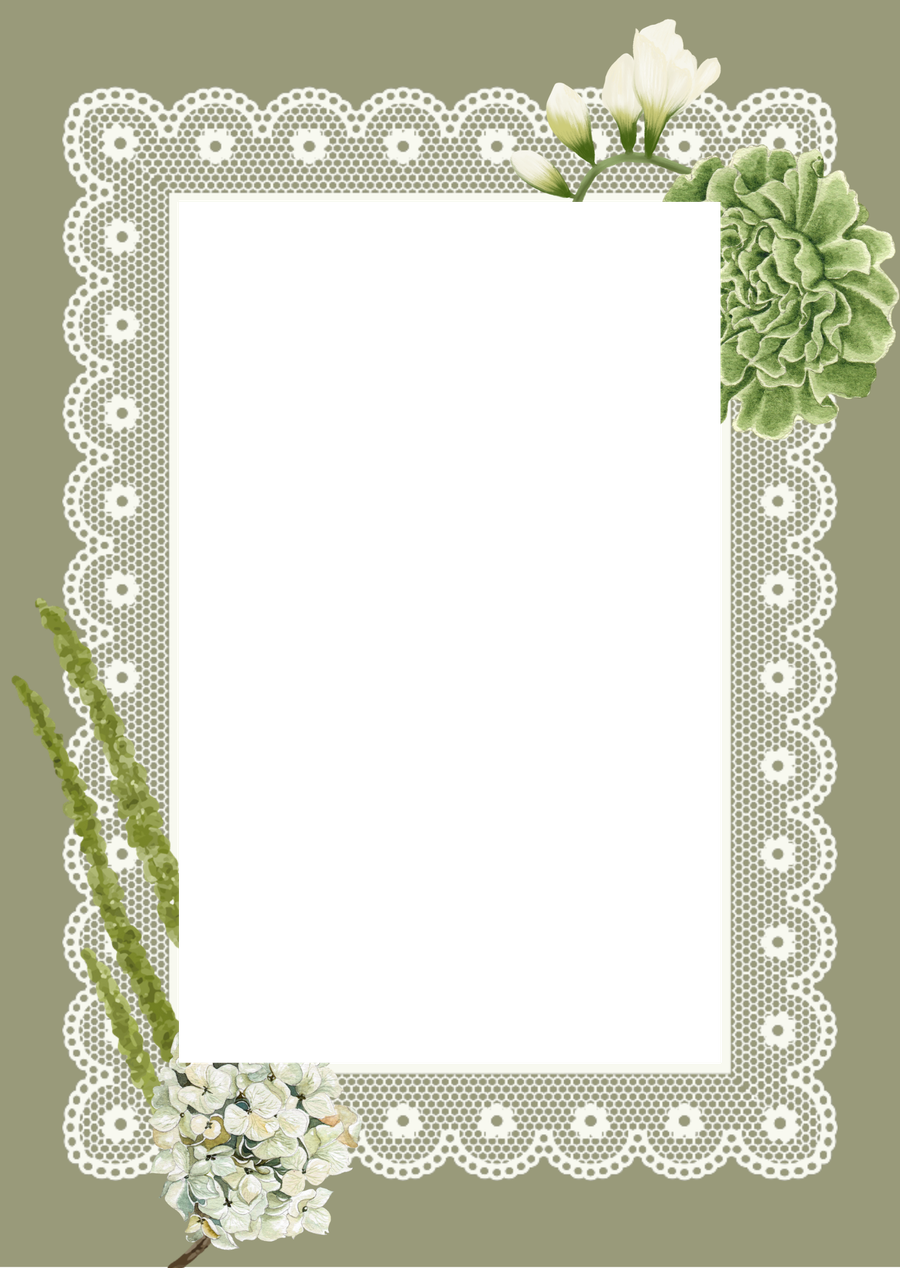
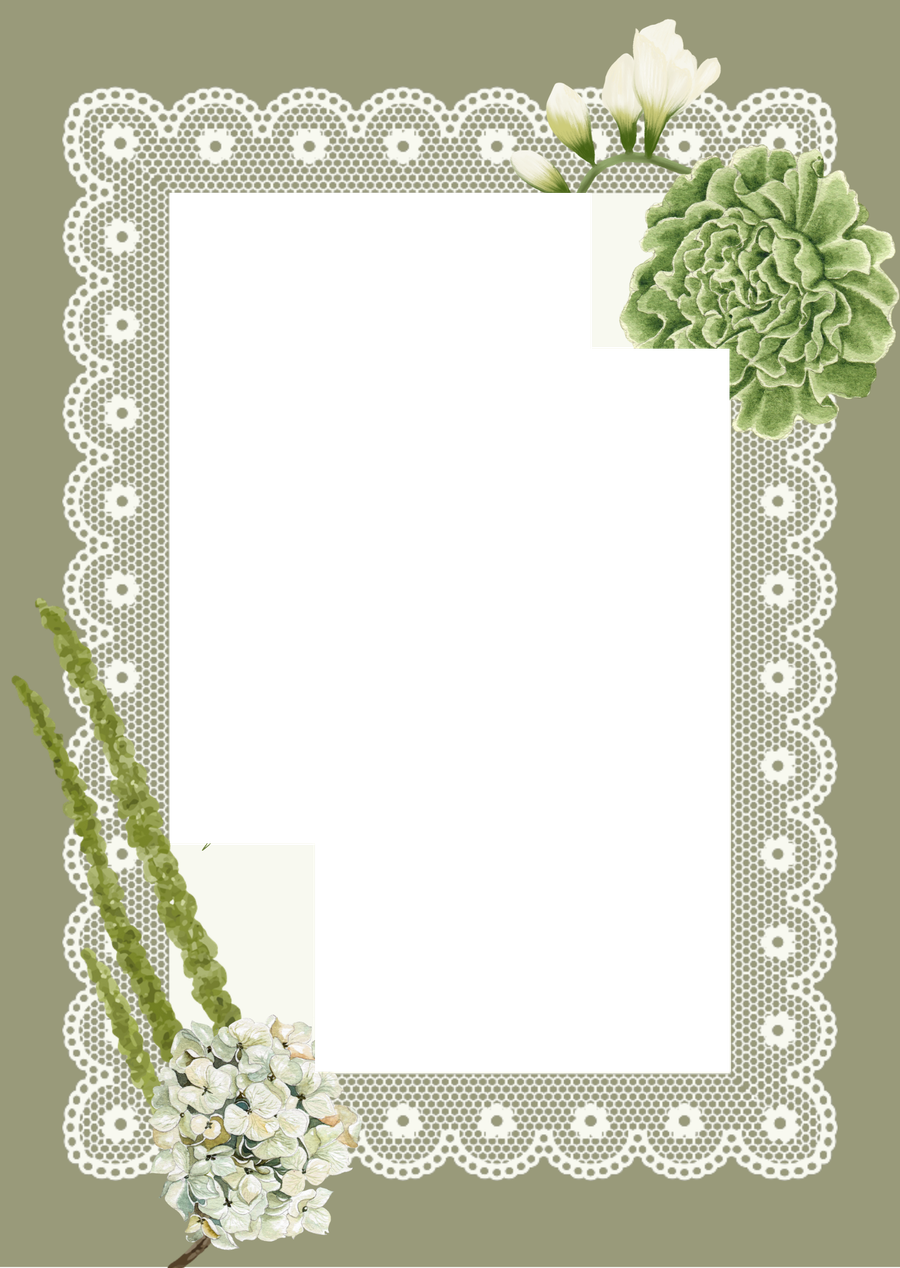
Krizza & Bryan invite: one-screen card that swaps to the RSVP form on tap
Fixed the flower z-order (real flower art now sits in front of the card exactly
as in the Canva design, no more clipped stems); added the matching script font
for the monogram and 'and'; card and form are now two full-screen views on the
same page (no scrolling, phone-first) toggled by RSVP Here / Back; added a
twinkling-stars background (same pattern as Cherry Sage's starfield.js, recoloured
warm gold) and a soft glow on the card and button.

Changed region(s): [[0.1867, 0.6767, 0.3733, 0.8612], [0.6844, 0.1538, 0.8089, 0.3383], [0.6222, 0.1538, 0.6533, 0.1845]]

diff --git a/krizza-and-bryan-invite.html b/krizza-and-bryan-invite.html
@@ -13,62 +13,90 @@
 <meta property="og:url" content="https://balaynibruno.co/krizza-and-bryan-invite">
 <meta property="og:image" content="https://balaynibruno.co/assets/krizza-bryan/canva-invite.jpg">
 <meta name="twitter:card" content="summary_large_image">
-<meta name="theme-color" content="#999A7A">
+<meta name="theme-color" content="#8B8C6E">
 <link rel="preconnect" href="https://fonts.googleapis.com">
 <link rel="preconnect" href="https://fonts.gstatic.com" crossorigin>
-<link rel="stylesheet" href="https://fonts.googleapis.com/css2?family=Cormorant+Garamond:ital,wght@0,500;0,600;1,400;1,500;1,600&family=Karla:wght@400;600;700&display=swap">
+<link rel="stylesheet" href="https://fonts.googleapis.com/css2?family=Beau+Rivage&family=Cormorant+Garamond:ital,wght@0,500;0,600;1,400;1,500;1,600&family=Karla:wght@400;600;700&display=swap">
 <style>
 :root{
-  --olive:#999A7A; --cream:#F8F9F0; --ink:#5E6B34; --pink:#CFACA6; --pink-ink:#B98F87;
+  --olive:#999A7A; --olive-deep:#7E805F; --cream:#F8F9F0; --ink:#5E6B34; --pink:#CFACA6; --pink-ink:#B98F87;
   --muted:#7C7A63; --line:#E4DFC9;
 }
 *{box-sizing:border-box}
-html{scroll-behavior:smooth}
+html,body{height:100%}
 body{
-  margin:0; background:var(--olive); color:var(--ink);
-  font-family:"Karla",system-ui,-apple-system,sans-serif; line-height:1.6;
+  margin:0; background:radial-gradient(120% 100% at 50% 0%, var(--olive) 0%, var(--olive-deep) 100%);
+  color:var(--ink); font-family:"Karla",system-ui,-apple-system,sans-serif; line-height:1.6; overflow:hidden;
 }
-h1,h2,.serif{font-family:"Cormorant Garamond",Georgia,serif; margin:0}
 a{color:inherit}
 :focus-visible{outline:3px solid var(--pink-ink); outline-offset:3px}
+canvas.kb-stars{ position:fixed; inset:0; z-index:0; pointer-events:none }
 
-/* ---------- the card (real frame photo + real live text over the same hole) ---------- */
-.stage{ padding:36px 16px 8px; display:flex; justify-content:center }
+.screen{
+  position:fixed; inset:0; z-index:1; display:flex; flex-direction:column; align-items:center; justify-content:center;
+  padding:calc(env(safe-area-inset-top,0px) + 14px) 16px calc(env(safe-area-inset-bottom,0px) + 14px);
+  transition:opacity .45s ease, transform .45s cubic-bezier(.2,.8,.2,1);
+}
+#screenForm{ opacity:0; transform:translateY(24px) scale(.98); pointer-events:none; overflow-y:auto; align-items:flex-start; padding-top:calc(env(safe-area-inset-top,0px) + 22px) }
+body[data-view="form"] #screenCard{ opacity:0; transform:translateY(-18px) scale(.98); pointer-events:none }
+body[data-view="form"] #screenForm{ opacity:1; transform:none; pointer-events:auto }
+body[data-view="form"]{ overflow-y:auto }
+body:not([data-view="form"]){ overflow:hidden }
+
+/* ---------- the card (real frame photo + real live text over the same area) ---------- */
 .card{
-  position:relative; width:100%; max-width:460px; aspect-ratio:900/1268;
-  filter:drop-shadow(0 22px 46px rgba(30,30,10,.35));
+  position:relative; width:min(94vw, 92dvh * 0.71, 430px); aspect-ratio:900/1268;
+  animation:cardIn .8s cubic-bezier(.2,.8,.2,1) both, cardGlow 3.6s ease-in-out .8s infinite;
+}
+@keyframes cardIn{ from{ opacity:0; transform:translateY(16px) scale(.96) } to{ opacity:1; transform:none } }
+@keyframes cardGlow{
+  0%,100%{ filter:drop-shadow(0 20px 42px rgba(20,20,8,.4)) drop-shadow(0 0 26px rgba(247,225,170,.15)) }
+  50%{ filter:drop-shadow(0 24px 50px rgba(20,20,8,.42)) drop-shadow(0 0 42px rgba(247,225,170,.32)) }
 }
 .card .frame{ position:absolute; inset:0; width:100%; height:100%; z-index:2; pointer-events:none; user-select:none }
 .card .content{
-  position:absolute; left:19.9%; top:15.9%; width:60.2%; height:67.9%;
+  position:absolute; left:18.9%; top:15.2%; width:62.2%; height:69.3%;
   background:var(--cream); z-index:1;
-  display:flex; flex-direction:column; align-items:center; justify-content:flex-start;
-  text-align:center; padding:2% 3% 3%; overflow:hidden;
+  display:flex; flex-direction:column; align-items:center; justify-content:center;
+  text-align:center; padding:2% 3%; overflow:hidden; container-type:inline-size;
 }
-.mono{ font-family:"Cormorant Garamond",serif; font-style:italic; font-weight:600; font-size:clamp(1.6rem,7cqw,2.4rem); margin-top:2%; }
-.kicker{ font-size:clamp(.5rem,2.3cqw,.72rem); letter-spacing:.18em; font-weight:700; text-transform:uppercase; margin-top:6%; line-height:1.7 }
-.names{ font-size:clamp(1.5rem,7.2cqw,2.5rem); letter-spacing:.06em; text-transform:uppercase; margin-top:6%; line-height:1.15 }
-.and{ font-family:"Cormorant Garamond",serif; font-style:italic; font-size:clamp(.9rem,3.6cqw,1.3rem); display:block; margin:1% 0 }
-.date{ font-size:clamp(.6rem,2.6cqw,.85rem); letter-spacing:.12em; font-weight:700; text-transform:uppercase; margin-top:5% }
-.venue{ font-size:clamp(.55rem,2.4cqw,.8rem); letter-spacing:.06em; text-transform:uppercase; margin-top:3%; line-height:1.55 }
-.note{ font-family:"Cormorant Garamond",serif; font-style:italic; font-size:clamp(.68rem,2.9cqw,1rem); margin-top:5%; color:var(--muted) }
-.deadline{ font-size:clamp(.5rem,2.2cqw,.7rem); letter-spacing:.12em; font-weight:700; text-transform:uppercase; margin-top:5%; line-height:1.7 }
+.mono{ font-family:"Beau Rivage",cursive; font-size:clamp(1.9rem,11cqw,2.8rem); line-height:1; color:var(--ink) }
+.kicker{ font-size:clamp(.5rem,2.4cqw,.72rem); letter-spacing:.18em; font-weight:700; text-transform:uppercase; margin-top:6%; line-height:1.7 }
+.names{ font-family:"Cormorant Garamond",serif; font-weight:600; font-size:clamp(1.5rem,7.6cqw,2.5rem); letter-spacing:.05em; text-transform:uppercase; margin-top:6%; line-height:1.1 }
+.and{ font-family:"Beau Rivage",cursive; font-size:clamp(1rem,5cqw,1.5rem); display:block; margin:1% 0; color:var(--pink-ink) }
+.date{ font-size:clamp(.6rem,2.7cqw,.85rem); letter-spacing:.12em; font-weight:700; text-transform:uppercase; margin-top:5% }
+.venue{ font-size:clamp(.55rem,2.5cqw,.8rem); letter-spacing:.06em; text-transform:uppercase; margin-top:3%; line-height:1.55 }
+.note{ font-family:"Cormorant Garamond",serif; font-style:italic; font-size:clamp(.68rem,3cqw,1rem); margin-top:5%; color:var(--muted) }
+.deadline{ font-size:clamp(.5rem,2.3cqw,.7rem); letter-spacing:.12em; font-weight:700; text-transform:uppercase; margin-top:5%; line-height:1.7 }
 .rsvp-btn{
-  margin-top:5%; background:var(--pink); color:#fff; border:0; cursor:pointer;
-  font:700 clamp(.6rem,2.6cqw,.85rem)/1 "Karla",sans-serif; letter-spacing:.14em; text-transform:uppercase;
-  padding:4.2% 8%; width:78%; border-radius:2px;
+  position:relative; overflow:hidden; margin-top:5%; background:var(--pink); color:#fff; border:0; cursor:pointer;
+  font:700 clamp(.6rem,2.7cqw,.85rem)/1 "Karla",sans-serif; letter-spacing:.14em; text-transform:uppercase;
+  padding:4.4% 8%; width:80%; border-radius:2px; box-shadow:0 8px 18px -8px rgba(40,20,10,.45);
+  transition:transform .2s ease, box-shadow .2s ease;
 }
-.rsvp-btn:hover{ background:var(--pink-ink) }
-.hint{ font-size:.68rem; letter-spacing:.06em; text-align:center; color:#EFEEDD; opacity:.85; margin:10px 0 0 }
+.rsvp-btn:hover{ background:var(--pink-ink); transform:translateY(-1px); box-shadow:0 12px 22px -8px rgba(40,20,10,.5) }
+.rsvp-btn:active{ transform:translateY(0) scale(.98) }
+.rsvp-btn::after{
+  content:""; position:absolute; top:0; left:-60%; width:40%; height:100%;
+  background:linear-gradient(115deg, transparent, rgba(255,255,255,.55), transparent);
+  animation:shine 3.2s ease-in-out 1.2s infinite;
+}
+@keyframes shine{ 0%{ left:-60% } 35%{ left:130% } 100%{ left:130% } }
+@media (prefers-reduced-motion:reduce){ .rsvp-btn::after{ animation:none; display:none } .card{ animation:none } }
+.hint{ font-size:.7rem; letter-spacing:.06em; text-align:center; color:#F3F0DF; opacity:.85; margin:12px 0 0 }
 
-/* ---------- the form section (revealed below, same page) ---------- */
-#rsvp{ padding:24px 16px 64px }
-.wrap{ width:min(100% - 0px, 460px); margin-inline:auto }
-.formcard{
-  background:var(--cream); border-radius:14px; padding:26px 22px 22px;
-  box-shadow:0 14px 34px -18px rgba(30,30,10,.45);
+/* ---------- the form screen ---------- */
+.wrap{ width:min(92vw, 420px); margin-inline:auto; padding-bottom:24px }
+.back{
+  display:inline-flex; align-items:center; gap:6px; color:#F3F0DF; background:none; border:0; cursor:pointer;
+  font:700 .78rem/1 "Karla",sans-serif; letter-spacing:.08em; text-transform:uppercase; margin:0 0 14px; padding:8px 4px;
 }
-.formcard h2{ text-align:center; font-size:1.7rem; color:var(--ink); margin-bottom:4px }
+.back:hover{ opacity:.8 }
+.formcard{
+  background:var(--cream); border-radius:16px; padding:26px 22px 22px;
+  box-shadow:0 20px 46px -20px rgba(20,20,8,.55), 0 0 30px rgba(247,225,170,.12);
+}
+.formcard h2{ font-family:"Cormorant Garamond",serif; text-align:center; font-size:1.7rem; color:var(--ink); margin:0 0 4px }
 .formcard .sub{ text-align:center; color:var(--muted); font-size:.92rem; margin-bottom:20px }
 .field{ margin:0 0 18px }
 label,.legend{ display:block; font-weight:700; margin-bottom:6px; color:#3C3A2C; font-size:.95rem }
@@ -106,15 +134,16 @@ input:focus,textarea:focus{ outline:none; border-color:var(--pink-ink); box-shad
 .thanks p{ color:var(--muted); max-width:360px; margin:8px auto 0 }
 </style>
 </head>
-<body>
+<body data-view="card">
+<canvas class="kb-stars" aria-hidden="true"></canvas>
 
-<section class="stage">
+<section class="screen" id="screenCard">
   <div class="card">
     <img class="frame" src="/assets/krizza-bryan/canva-frame.png" alt="" aria-hidden="true" width="900" height="1268">
-    <div class="content" style="container-type:inline-size">
+    <div class="content">
       <div class="mono">K&amp;B</div>
       <div class="kicker">Please join us<br>to celebrate the wedding of</div>
-      <div class="names">Krizza<span class="and serif">and</span>Bryan</div>
+      <div class="names">Krizza<span class="and">and</span>Bryan</div>
       <div class="date">October 24th, 2026</div>
       <div class="venue">Astoria Regency Convention<br>Center Zamboanga City</div>
       <div class="note">Formal invitation with full details to follow</div>
@@ -122,11 +151,12 @@ input:focus,textarea:focus{ outline:none; border-color:var(--pink-ink); box-shad
       <button class="rsvp-btn" type="button" id="rsvpGo">RSVP Here</button>
     </div>
   </div>
+  <p class="hint">Tap RSVP Here to fill in your reply</p>
 </section>
-<p class="hint">Tap RSVP Here to fill in your reply below</p>
 
-<section id="rsvp">
+<section class="screen" id="screenForm">
   <div class="wrap">
+    <button class="back" type="button" id="backGo" aria-label="Back to the invitation">&larr; Back</button>
     <div class="formcard">
       <div id="thanks" class="thanks" hidden aria-live="polite"></div>
       <div id="formHead">
@@ -187,11 +217,16 @@ input:focus,textarea:focus{ outline:none; border-color:var(--pink-ink); box-shad
   </div>
 </section>
 
+<script src="/assets/krizza-bryan/stars.js"></script>
 <script>
 (function(){
+  var body = document.body;
   document.getElementById('rsvpGo').addEventListener('click', function(){
-    document.getElementById('rsvp').scrollIntoView({behavior:'smooth', block:'start'});
-    setTimeout(function(){ var n=document.getElementById('name'); if(n) n.focus({preventScroll:true}); }, 500);
+    body.dataset.view = 'form';
+    setTimeout(function(){ var n=document.getElementById('name'); if(n) n.focus({preventScroll:true}); }, 350);
+  });
+  document.getElementById('backGo').addEventListener('click', function(){
+    body.dataset.view = 'card';
   });
 
   var form = document.getElementById('rsvpForm');
@@ -235,7 +270,6 @@ input:focus,textarea:focus{ outline:none; border-color:var(--pink-ink); box-shad
         ? '<h2>Thank you, ' + esc(first) + '.</h2><p>We can\'t wait to celebrate with you. Please watch for our official invitation.</p>'
         : '<h2>Thank you, ' + esc(first) + '.</h2><p>We will miss you, and we are grateful you let us know.</p>';
       t.hidden = false; document.getElementById('formHead').hidden = true; form.hidden = true;
-      t.scrollIntoView({block:'center', behavior:'smooth'});
     }).catch(function(){
       if(timer) clearTimeout(timer);
       send.disabled = false; send.textContent = 'Send my RSVP';

diff --git a/assets/krizza-bryan/stars.js b/assets/krizza-bryan/stars.js
@@ -1,0 +1,63 @@
+// Krizza & Bryan RSVP — a soft field of drifting, twinkling gold stars over the
+// olive background. Adapted from the same pattern used on Cherry Sage's site
+// (starfield.js): full-bleed canvas, gentle drift + twinkle, pauses off-screen,
+// respects prefers-reduced-motion. No nebula/constellation lines here, just the
+// stars themselves, dialed for a warm wedding-invite feel rather than a cosmic one.
+(function () {
+  const reduced = window.matchMedia("(prefers-reduced-motion: reduce)").matches;
+  const canvas = document.querySelector("canvas.kb-stars");
+  if (!canvas) return;
+  const ctx = canvas.getContext("2d");
+  let width, height, dpr, stars = [], raf = null, visible = true, t = 0;
+
+  function resize() {
+    dpr = Math.min(window.devicePixelRatio || 1, 2);
+    width = window.innerWidth; height = window.innerHeight;
+    canvas.width = width * dpr; canvas.height = height * dpr;
+    canvas.style.width = width + "px"; canvas.style.height = height + "px";
+    ctx.setTransform(dpr, 0, 0, dpr, 0, 0);
+    seed();
+  }
+
+  function seed() {
+    const density = Math.max(50, Math.floor((width * height) / 8500));
+    stars = Array.from({ length: density }, () => ({
+      x: Math.random() * width,
+      y: Math.random() * height,
+      r: Math.random() * 1.5 + 0.4,
+      baseAlpha: Math.random() * 0.55 + 0.25,
+      phase: Math.random() * Math.PI * 2,
+      speed: 0.15 + Math.random() * 0.25,
+      driftX: (Math.random() - 0.5) * 0.018,
+      driftY: (Math.random() - 0.5) * 0.018,
+    }));
+  }
+
+  function draw() {
+    if (!visible) { raf = requestAnimationFrame(draw); return; }
+    t += reduced ? 0 : 0.012;
+    ctx.clearRect(0, 0, width, height);
+    stars.forEach((s) => {
+      if (!reduced) {
+        s.x += s.driftX; s.y += s.driftY;
+        if (s.x < 0) s.x = width; if (s.x > width) s.x = 0;
+        if (s.y < 0) s.y = height; if (s.y > height) s.y = 0;
+      }
+      const twinkle = reduced ? s.baseAlpha : s.baseAlpha + Math.sin(t * s.speed * 4 + s.phase) * 0.2;
+      ctx.beginPath();
+      ctx.arc(s.x, s.y, s.r, 0, Math.PI * 2);
+      ctx.fillStyle = `rgba(247, 231, 190, ${Math.max(0, twinkle)})`;
+      ctx.fill();
+    });
+    raf = reduced ? null : requestAnimationFrame(draw);
+  }
+
+  const io = new IntersectionObserver((entries) => {
+    entries.forEach((e) => { visible = e.isIntersecting; });
+  });
+  io.observe(canvas);
+
+  window.addEventListener("resize", resize, { passive: true });
+  resize();
+  draw();
+})();
